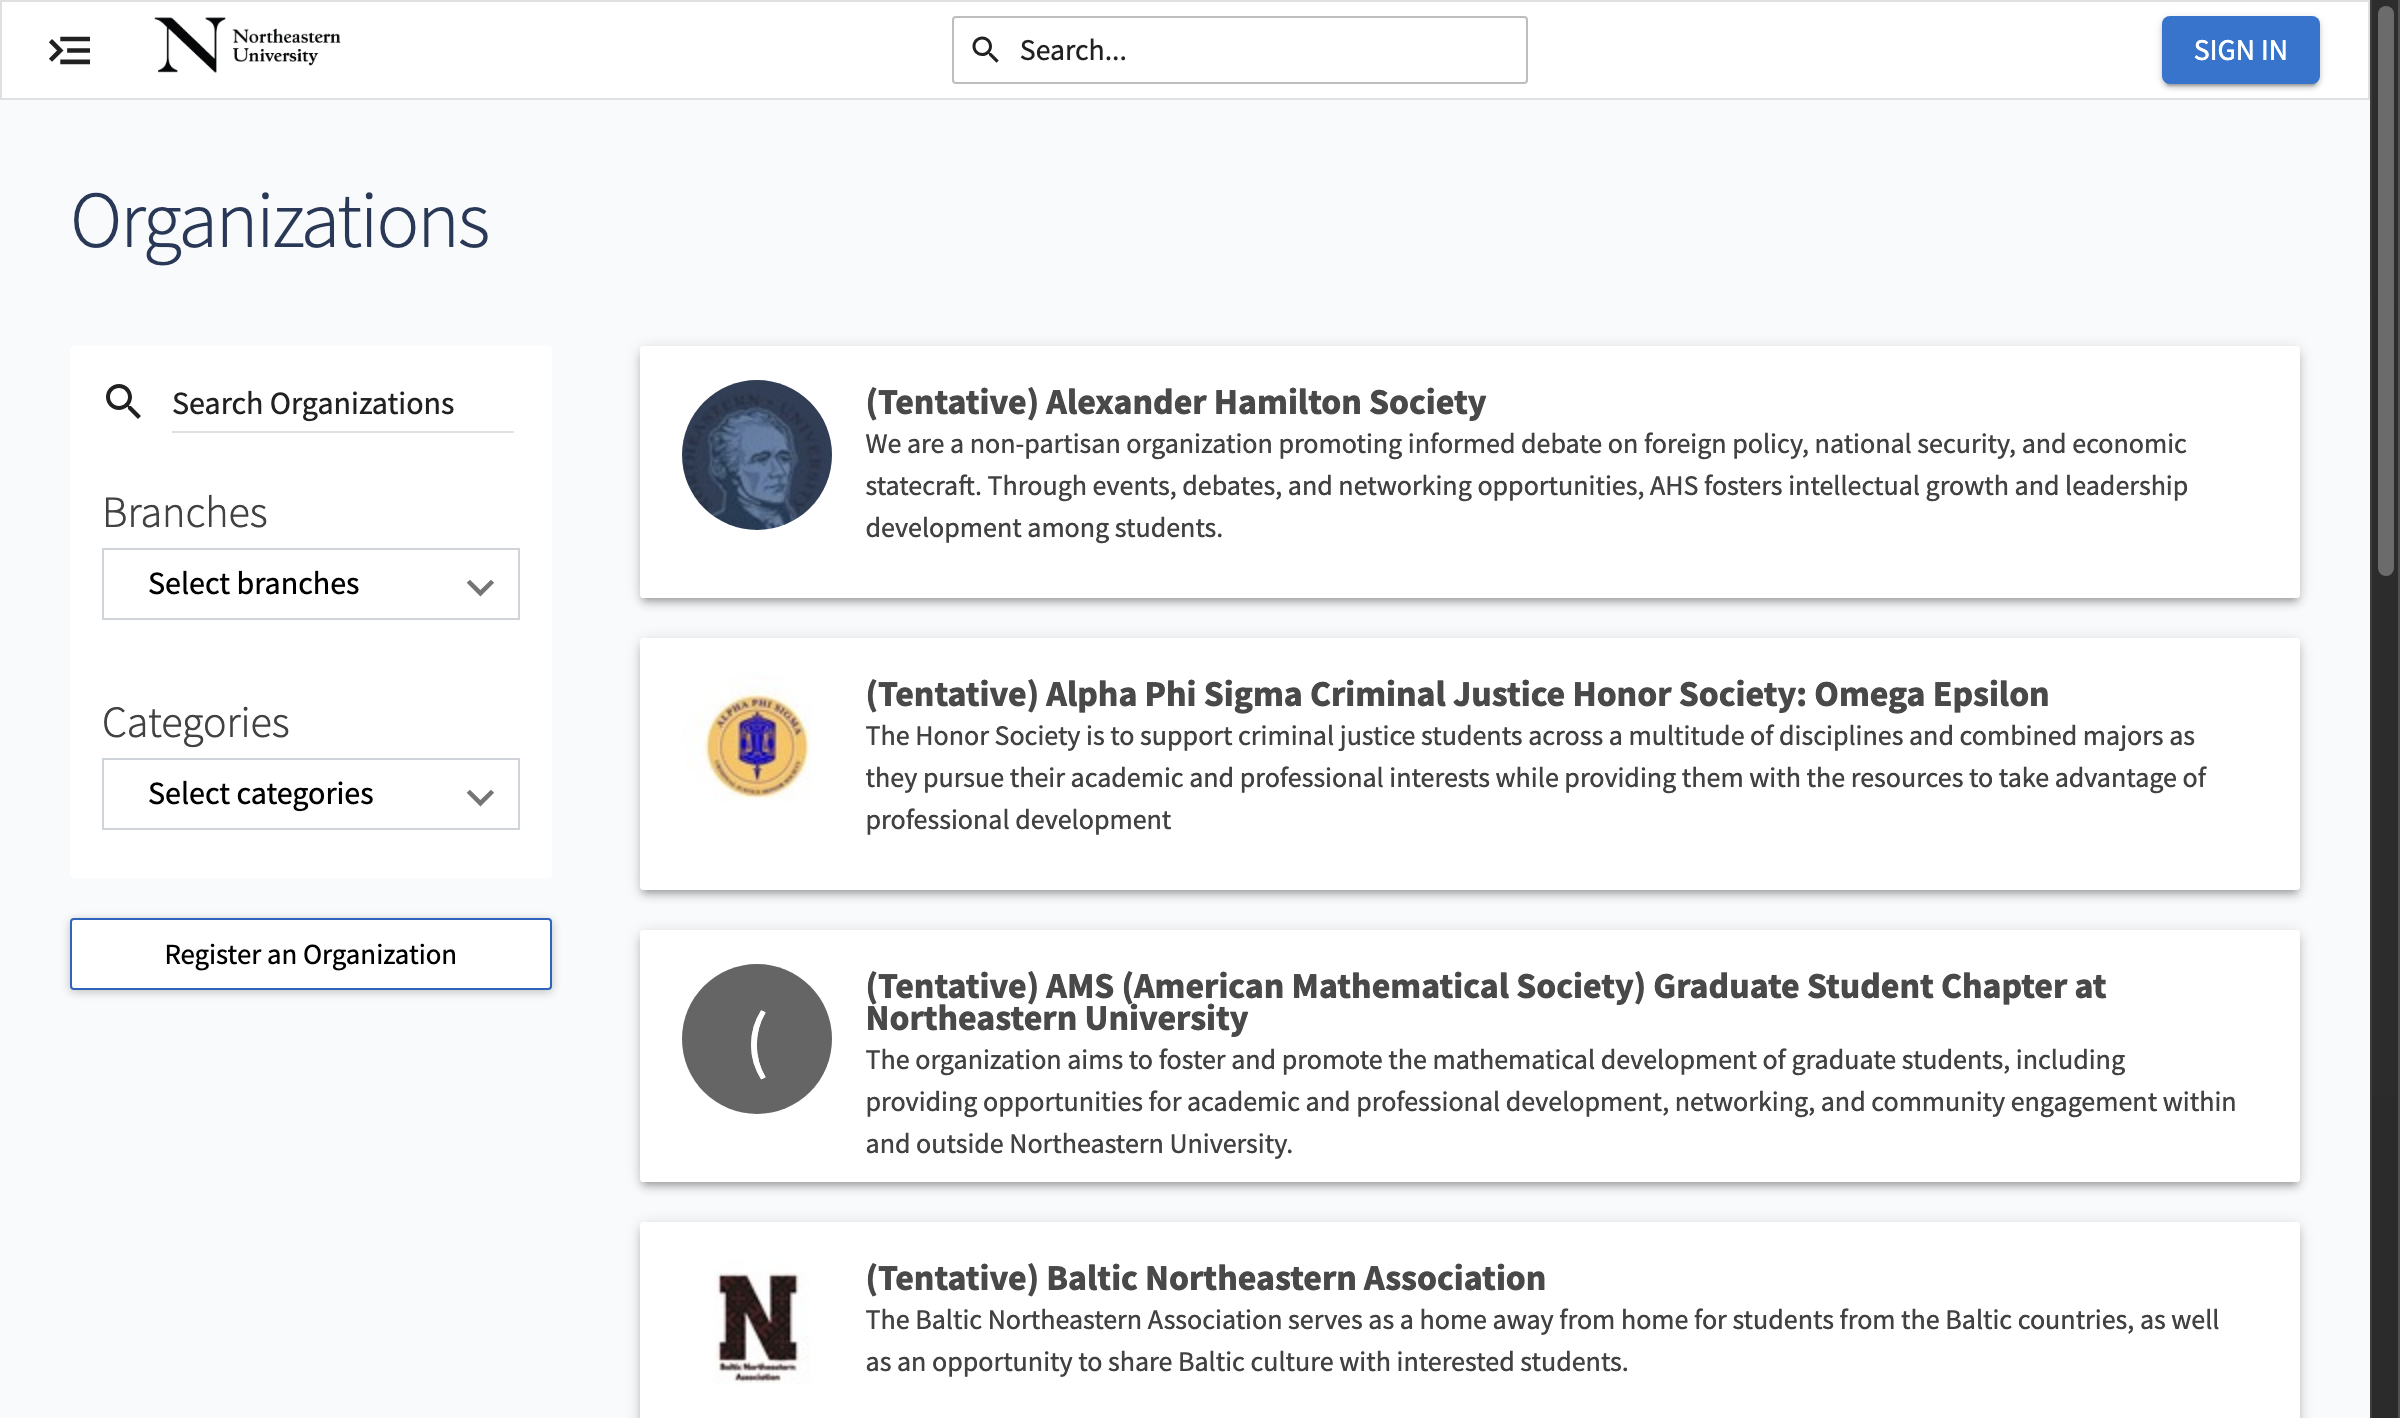
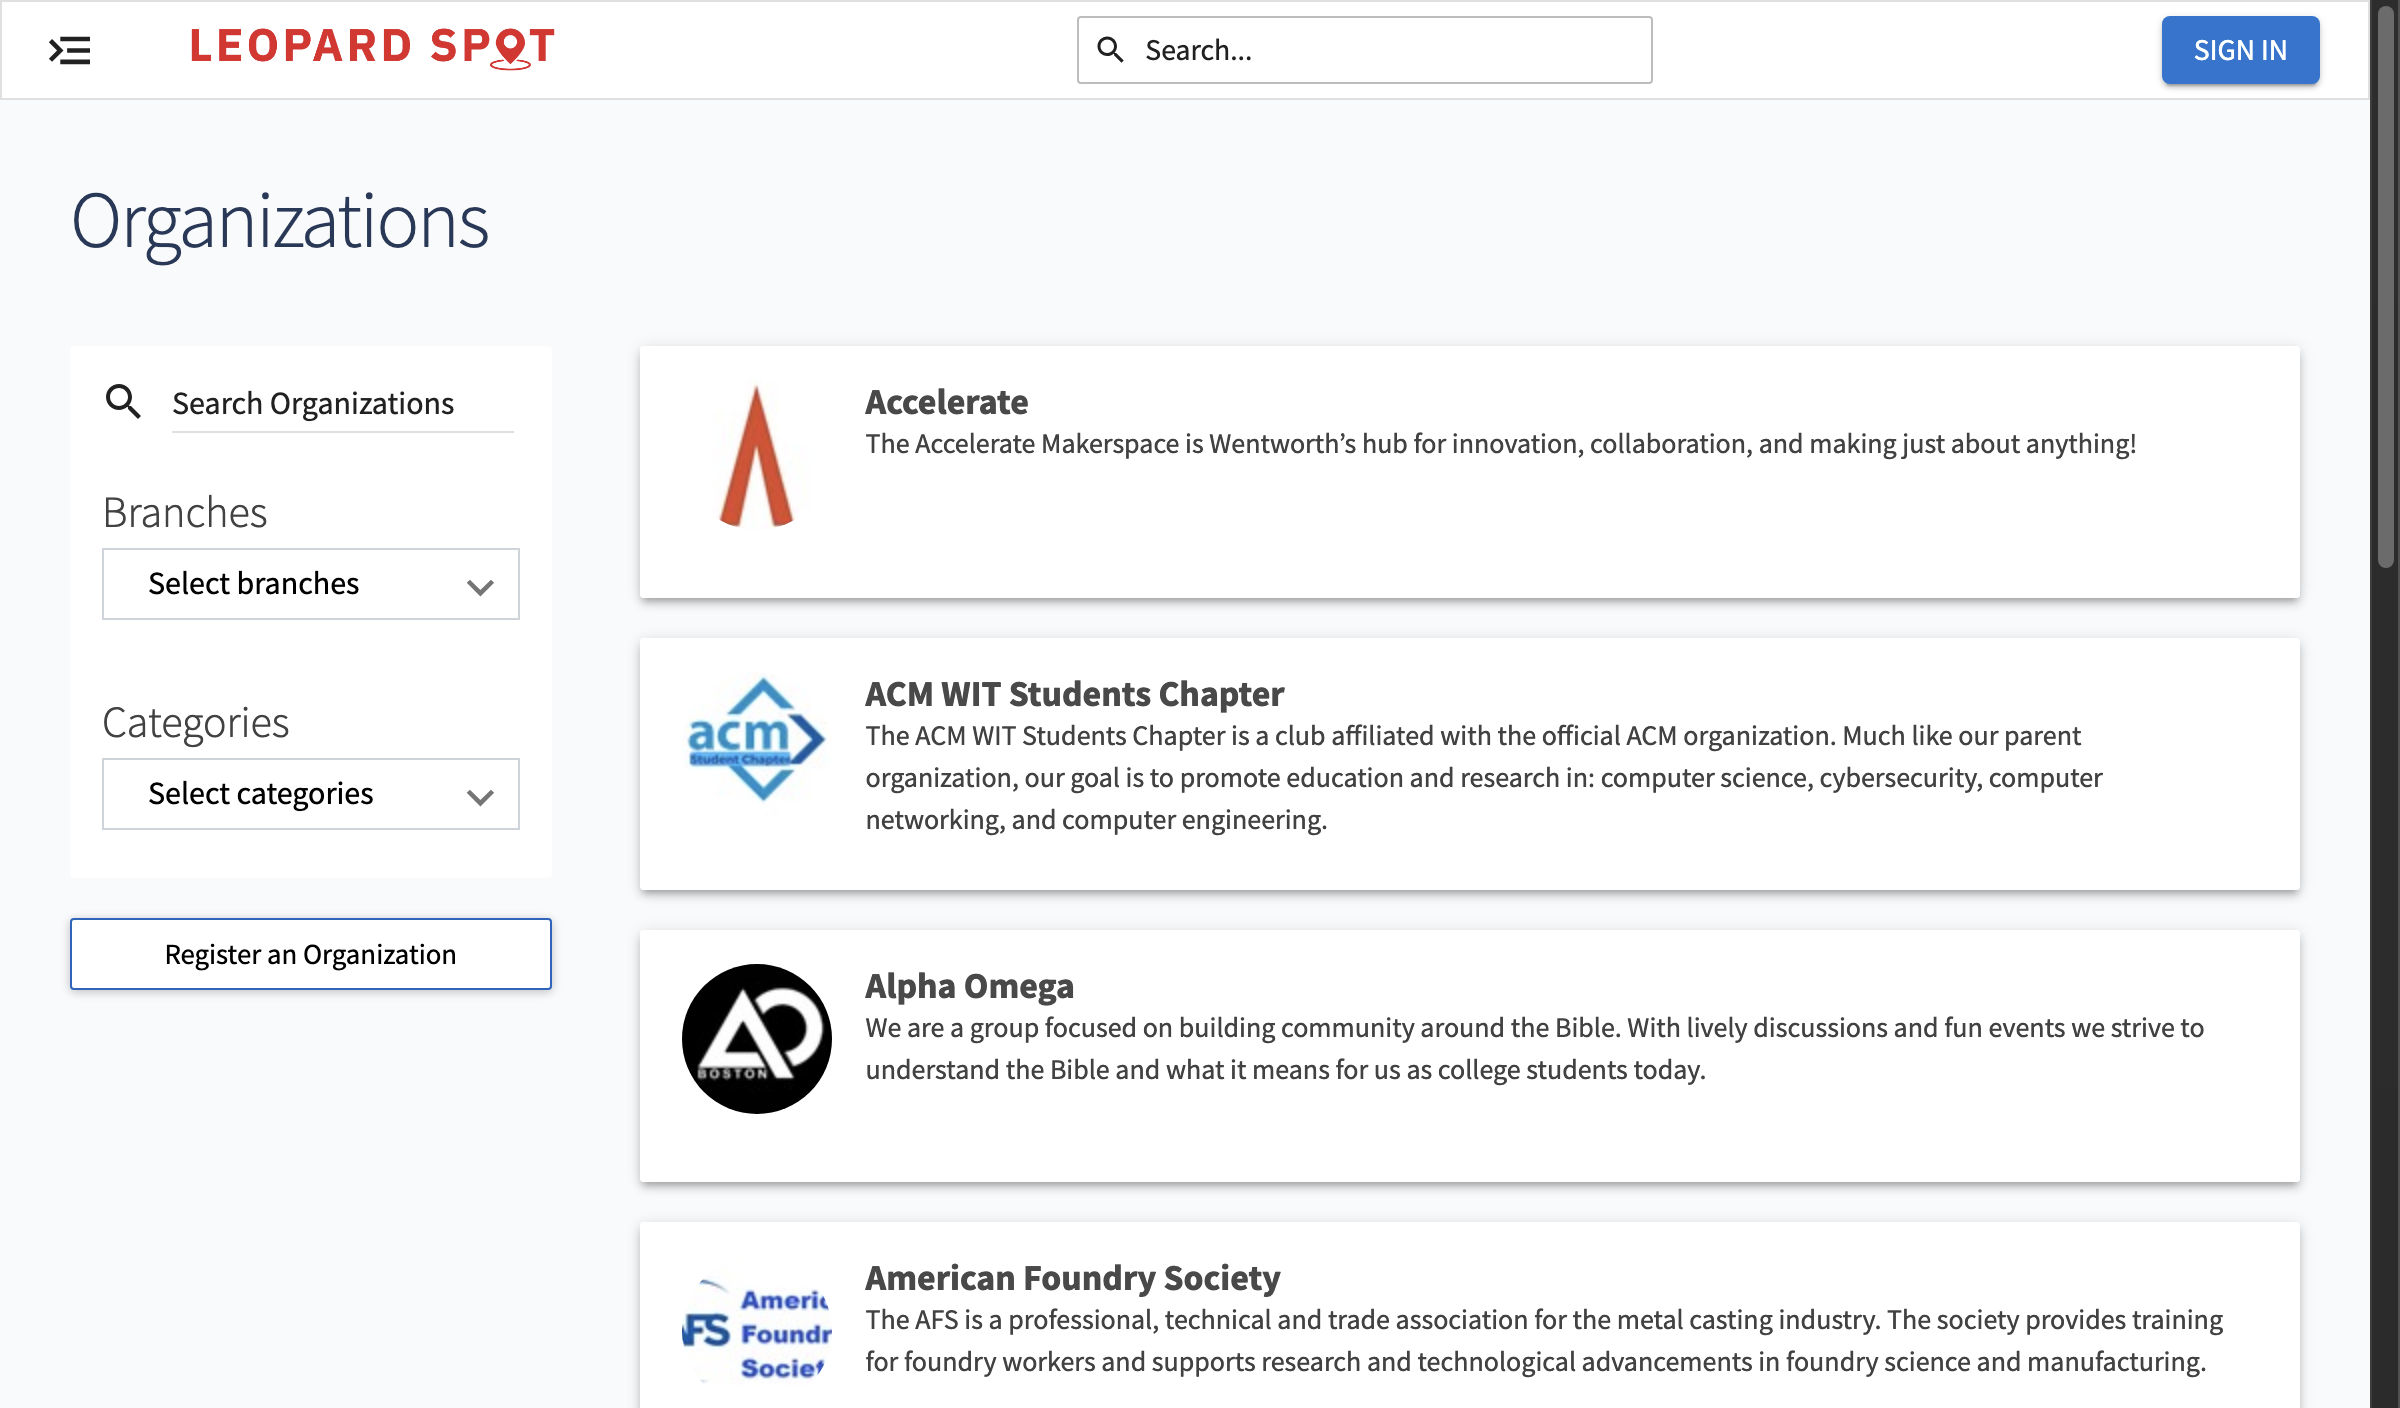
Fixed minor encoding errors. Data is becoming too disorganized and I am going to switch to using python dataclass objects instead to store data

diff --git a/scraper.py b/scraper.py
@@ -1,3 +1,16 @@
+"""
+Current list of items to resolve
+- Whitespace:
+    Wait until later once the description data is suffiecntly cleaned to avoid possible errors.
+- Getting images:
+List of images scraped from site- have first element be the club logo, if one provided. Other images, if availible, will be scraped from the site.
+Problems so far: 
+    - Clubs have a ton of images right now and I don't know which ones to pick out
+- Contact Info:
+    There are usually locations, insta links, maybe even a website. Only grab if there is data. Display as "More web info" as the information ranges from google
+    forms to actual websites.
+"""
+
 from typing import Any, Optional
 import time
 import json
@@ -17,15 +30,18 @@ opts.add_argument("--disable-renderer-backgrounding")
 opts.add_argument("--disable-backgrounding-occluded-windows")
 opts.add_argument("--no-sandbox")
 
-club_data: dict[str, dict[str, Any]] = {}
+#email, insta, and external web link
+contact_info: list[Optional[str]] = []
+#currently: club title, followed by descrption and emails and image urls
+club_data: dict[str, dict[str, Optional[None]]] = {} 
 
 driver = webdriver.Chrome(options=opts)
-
 waiting_time = WebDriverWait(driver, 10)
+    
 
-driver.get("https://neu.campuslabs.com/engage/organizations")
+
+driver.get("https://wit.campuslabs.com/engage/organizations")
 print(driver.title)
-driver.save_screenshot("page.png")
 button_element = driver.find_element(By.XPATH, "//div[@class='outlinedButton']//button[contains(., 'Load More')]")
 print(button_element.text)
 
@@ -72,6 +88,7 @@ for i in range(len(href_list)):
     #attempt to grab image_url
     try:
         image_url = driver.find_element(By.XPATH, "//img").get_attribute("src")
+        
     except(NoSuchElementException):
         print("No url found")
     #attempt to grab email
@@ -85,13 +102,12 @@ for i in range(len(href_list)):
 
     #each club is a nested dictionary of certain info with the club name as the key
     club_data[club_name] = {'description': description, 'image_url': image_url, 'email': email}
-    
+
 #stop driver
 driver.quit()
 #test to see if the data is good
 print(club_data)
 
 #write into a json file
-with open('club_data.json', 'w') as f:
-    json.dump(club_data, f)
-
+with open('other_club_data.json', 'w') as f:
+    json.dump(club_data, f, ensure_ascii=False)
